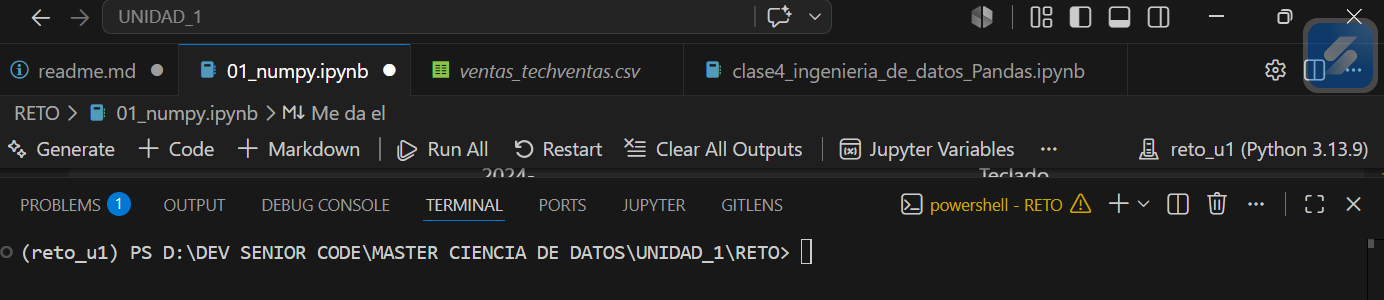
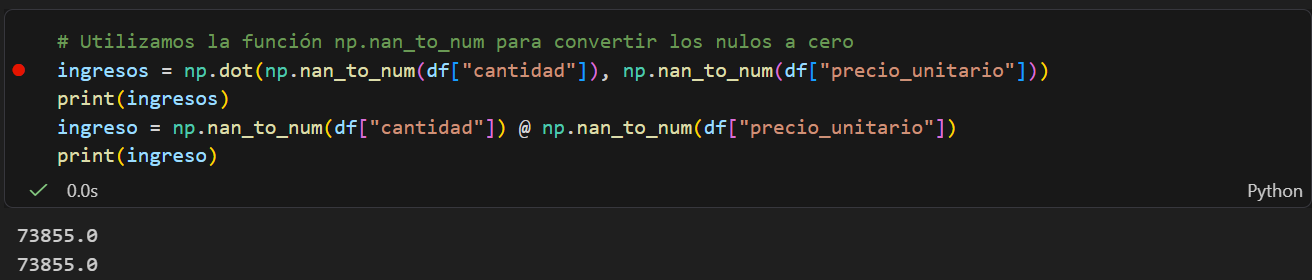
Actualización del notebook

diff --git a/readme.md b/readme.md
@@ -1,9 +1,22 @@
 ## Primer Punto: Numpy y Fundamentos Python
 
-### 1.1 Setup del entorno virtual: 
-reto_u1 ![alt text](image-1.png)
+### 1.1 Setup del entorno virtual: reto_u1 
+
+![alt text](image-2.png)
 
 ### 1.2 Algebra lineal aplicada:
-Me aparece como resultado el termino nan, por el motivo de que hay columnas con valores faltantes,
-para solucionar este resultado debemos utilizar pandas.
+Me aparece como resultado el termino nan, por el motivo de que hay columnas con valores faltantes o nulos, para solucionar este resultado debemos utilizar pandas.
+
 ![alt text](image.png)
+
+Para poder dare solución a esto, hay diferentes maneras, una de ellas es utilizar la función np.nan_to_num: Esta función de NumPy hace exactamente lo mismo que .fillna(0) de Pandas: transforma todos los NaN en ceros.
+
+![alt text](image-1.png)
+
+
+
+
+### 1.3 Estadísticas con Numpy
+Al usar directamente np.mean() de Numpy no duvuelve un número común de Python, sino un tipo de dato propio llamado np.float64 (un número decimal de precisión de 64 bits), en el ejemplo se ve reflejado lo anteriormente dicho, porque se está usando la función np.mean() de NumPy directamente sobre una columna de un DataFrame de Pandas.
+
+